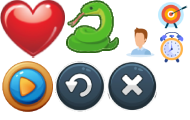
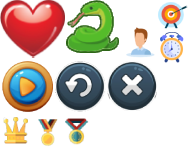
Finished UI Design codes for the Top 3 Leaderboard in menu screen. Updated Designed by label.

diff --git a/src/interface.py b/src/interface.py
@@ -44,7 +44,7 @@ class Interface:
         Creates the GUI for the MENU state of the game.
         """
         wtitle, htitle = self._WIDTH - 300, 100
-        lb_width, lb_height, item_width = wtitle - 20, 150, wtitle - 40
+        lb_width, lb_height, item_width = wtitle - 20, 165, wtitle - 40
         bwidth, bheight = 230, 70
         margin_y, hlbitem = 13, 40
         xtitle, ytitle = ((self._WIDTH - wtitle) / 2,
@@ -95,10 +95,10 @@ class Interface:
             container=self.menu_panel
         )
         # Create the developed by label
-        label_rect = pygame.Rect((self._WIDTH-400)/2, self._HEIGHT-45, 400, 20)
+        label_rect = pygame.Rect((self._WIDTH-410)/2, self._HEIGHT-60, 410, 20)
         pygame_gui.elements.UILabel(
             relative_rect=label_rect, object_id="#developed_lbl",
-            text="Developed by:  Fidel Jesus O. Surtida I",
+            text="Developed by:  2024 © Fidel Jesus O. Surtida I",
             container=self.menu_panel
         )
 
@@ -107,63 +107,99 @@ class Interface:
         This will be called to recreate the leaderboard elements based
         on the saved highscore data file.
         """
-        name_width, stats_width = 150, 80
-        lbl_height = 35
+        # Create the panel list to save the references
+        self.entry_panels = []
+        # Create the medal icons
+        medals = [
+            self.icons.subsurface(1, 117, 27, 27),
+            self.icons.subsurface(35, 119, 27, 28),
+            self.icons.subsurface(63, 118, 27, 27)
+        ]
+        # UI measurement variables
+        name_width, stats_width, rank_width = 150, 80, 50
+        entry_y, lbl_height = hlbitem - 3, 35
+        # Sample data to be displayed in the top 3
+        data = {
+            1: {"name": "DivineKaiser", "score": 12345,
+                "lifetime": 7777, "stretch": 123},
+            2: {"name": "HeraLithea", "score": 12345,
+                "lifetime": 3333, "stretch": 456},
+            3: None
+        }
 
-        # Create the leaderboard entry panel container
-        self.entry_panel = pygame_gui.elements.UIPanel(
-            relative_rect=pygame.Rect(3, hlbitem, item_width, hlbitem),
-            starting_height=1, manager=self.manager,
-            container=self.leaderboard_panel, object_id="@entry_panel"
-        )
-        # Create the player name label
-        name_label = pygame_gui.elements.UILabel(
-            relative_rect=pygame.Rect(95, 0, name_width, lbl_height),
-            text="Player Name", container=self.entry_panel,
-            object_id="@entry_labels"
-        )
-        # Create the score icon image
-        x = name_label.relative_rect.right + 30
-        score_img = pygame_gui.elements.UIImage(
-            relative_rect=pygame.Rect(x, 5, 25, 23),
-            image_surface=self.icons.subsurface((157, 1, 30, 28)),
-            container=self.entry_panel
-        )
-        # Create the score label
-        x = score_img.relative_rect.right + 10
-        score_label = pygame_gui.elements.UILabel(
-            relative_rect=pygame.Rect(x, 0, stats_width, lbl_height),
-            text="99999", container=self.entry_panel,
-            object_id="@entry_num_labels"
-        )
-        # Create the lifetime icon image
-        x = score_label.relative_rect.right + 20
-        lifetime_img = pygame_gui.elements.UIImage(
-            relative_rect=pygame.Rect(x, 3, 23, 27),
-            image_surface=self.icons.subsurface((159, 31, 26, 31)),
-            container=self.entry_panel
-        )
-        # Create the lifetime label
-        x = lifetime_img.relative_rect.right + 10
-        lifetime_label = pygame_gui.elements.UILabel(
-            relative_rect=pygame.Rect(x, 0, stats_width, lbl_height),
-            text="9999s", container=self.entry_panel,
-            object_id="@entry_num_labels"
-        )
-        # Create the stretch icon image
-        x = lifetime_label.relative_rect.right + 20
-        stretch_img = pygame_gui.elements.UIImage(
-            relative_rect=pygame.Rect(x, 3, 23, 27),
-            image_surface=self.icons.subsurface((65, 0, 55, 55)),
-            container=self.entry_panel
-        )
-        # Create the stretch label
-        x = stretch_img.relative_rect.right + 10
-        stretch_label = pygame_gui.elements.UILabel(
-            relative_rect=pygame.Rect(x, 0, stats_width, lbl_height),
-            text="999m", container=self.entry_panel,
-            object_id="@entry_num_labels"
-        )
+        for rank, player in data.items():
+            # Create the leaderboard entry panel container
+            entry_panel = pygame_gui.elements.UIPanel(
+                relative_rect=pygame.Rect(3, entry_y, item_width, hlbitem),
+                starting_height=1, manager=self.manager,
+                container=self.leaderboard_panel, object_id="@entry_panel"
+            )
+            # Create the medal image
+            pygame_gui.elements.UIImage(
+                relative_rect=pygame.Rect(15, 5, 25, 25),
+                image_surface=medals[rank-1], container=entry_panel
+            )
+            # Create the position label
+            pygame_gui.elements.UILabel(
+                relative_rect=pygame.Rect(35, 0, rank_width, lbl_height),
+                text=f"{rank}", container=entry_panel,
+                object_id="@rank_labels"
+            )
+            # Create the player name label
+            player_name = player["name"] if player else "-----"
+            name_label = pygame_gui.elements.UILabel(
+                relative_rect=pygame.Rect(95, 0, name_width, lbl_height),
+                text=player_name, container=entry_panel,
+                object_id="@entry_labels"
+            )
+            # Create the score icon image
+            x = name_label.relative_rect.right + 30
+            score_img = pygame_gui.elements.UIImage(
+                relative_rect=pygame.Rect(x, 5, 25, 23),
+                image_surface=self.icons.subsurface((157, 1, 30, 28)),
+                container=entry_panel
+            )
+            # Create the score label
+            x = score_img.relative_rect.right + 10
+            player_score = player["score"] if player else "-----"
+            score_label = pygame_gui.elements.UILabel(
+                relative_rect=pygame.Rect(x, 0, stats_width, lbl_height),
+                text=f"{player_score}", container=entry_panel,
+                object_id="@entry_num_labels"
+            )
+            # Create the lifetime icon image
+            x = score_label.relative_rect.right + 20
+            lifetime_img = pygame_gui.elements.UIImage(
+                relative_rect=pygame.Rect(x, 3, 23, 27),
+                image_surface=self.icons.subsurface((159, 31, 26, 31)),
+                container=entry_panel
+            )
+            # Create the lifetime label
+            x = lifetime_img.relative_rect.right + 10
+            player_lifetime = f"{player["lifetime"]}s" if player else "-----"
+            lifetime_label = pygame_gui.elements.UILabel(
+                relative_rect=pygame.Rect(x, 0, stats_width, lbl_height),
+                text=player_lifetime, container=entry_panel,
+                object_id="@entry_num_labels"
+            )
+            # Create the stretch icon image
+            x = lifetime_label.relative_rect.right + 20
+            stretch_img = pygame_gui.elements.UIImage(
+                relative_rect=pygame.Rect(x, 3, 23, 27),
+                image_surface=self.icons.subsurface((65, 0, 55, 55)),
+                container=entry_panel
+            )
+            # Create the stretch label
+            x = stretch_img.relative_rect.right + 10
+            player_stretch = f"{player["stretch"]}m" if player else "-----"
+            stretch_label = pygame_gui.elements.UILabel(
+                relative_rect=pygame.Rect(x, 0, stats_width, lbl_height),
+                text=player_stretch, container=entry_panel,
+                object_id="@entry_num_labels"
+            )
+            # append the entry panel and update the y coordinate
+            self.entry_panels.append(entry_panel)
+            entry_y += hlbitem - 5
 
     def _initialize_gameover_elements(self):
         """

diff --git a/src/objects/particles.py b/src/objects/particles.py
@@ -104,7 +104,7 @@ class Particle:
             # Decrease the size if the animation type is default
             if self.animation == Particle.TYPE.DEFAULT:
                 size = int(self.size * (self._lifetimer / self.lifetime))
-                size = self.size - size
+                size = max(0, self.size - size)
             # Else if its floating, update the alpha to invisible
             elif (self.animation == Particle.TYPE.FLOATING or
                   self.animation == Particle.TYPE.FALLING):

diff --git a/README.md b/README.md
@@ -38,8 +38,11 @@ This project is licensed under the MIT License - see the [LICENSE.md](LICENSE.md
 
 ## Acknowledgements
 
+- Snake Sprite Sheet downloaded from [OpenGameArt](https://opengameart.org/content/snake-sprite-sheet)
 - Apple Sprite downloaded from [Vecteezy Apple PNGS](https://www.vecteezy.com/free-png/apple)
+- Speedup Shoes and Snail Sprites downloaded from [Freepik](https://www.freepik.com/)
 - Button Icons and Particles downloaded from [Freepik](https://www.freepik.com/)
+- All fonts used are free license from [Dafont](https://www.dafont.com)
 
 ## Support
 
@@ -144,6 +147,8 @@ If you have any questions or issues, please feel free to [open an issue](https:/
   - Fixed snake head sprite detached on died state. Fixed item adding of score and balancing of spawn times.
 - May 10, 2024
   - Added partial UI Design for the Top 3 Leaderboard in the menu screen.
+- May 14, 2024
+  - Finished UI Design codes for the Top 3 Leaderboard in menu screen. Updated Designed by label.
 
 <br>
 <b>This project is currently under development.</b>
